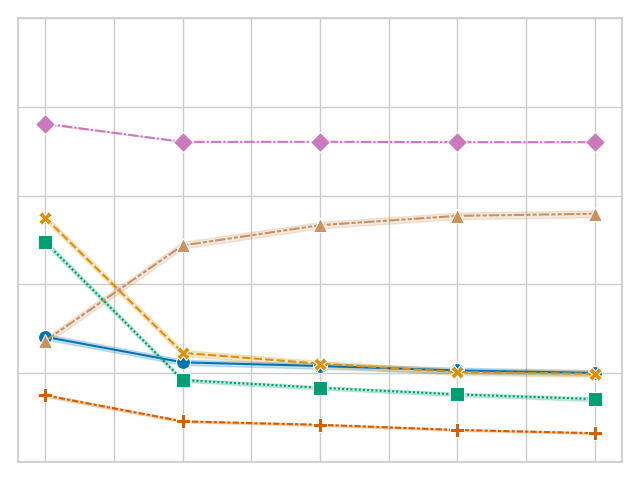
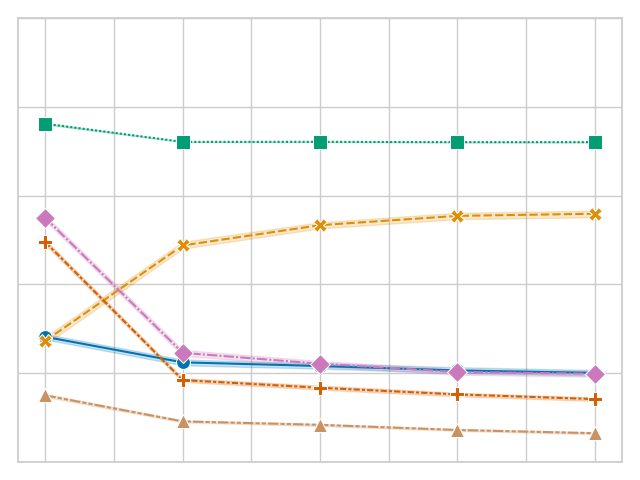
changed order in the plots

diff --git a/applications/atari/sanity_checks/sanity_checks_plot.py b/applications/atari/sanity_checks/sanity_checks_plot.py
@@ -153,23 +153,12 @@ if __name__ == '__main__':
 
     combined_df = add_approach(file_name, approach_name="Occlusion", games=games)
 
-    APPROACH = "noise"
-    RADIUS = 4
-    BLUR = False
-    RAW_DIFF = False
-    file_name = APPROACH + '_' + str(BLUR) + '_' + str(RAW_DIFF) + '_' + str(RADIUS) + ".csv"
+    APPROACH = "rise"
+    MASK_SIZE = 18
+    NUM_MASKS = 3000
+    file_name = APPROACH + '_' + "08" + '_' + str(MASK_SIZE) + '_' + str(NUM_MASKS) + ".csv"
     plot_combined_results(file_name, games, file_name.replace(".csv", ""))
-    combined_df = add_approach(file_name, approach_name="Noise Black", games=games, df=combined_df)
-
-    BLUR = True
-    file_name = APPROACH + '_' + str(BLUR) + '_' + str(RAW_DIFF) + '_' + str(RADIUS) + ".csv"
-    plot_combined_results(file_name, games, file_name.replace(".csv", ""))
-    combined_df = add_approach(file_name, approach_name="Noise Blur", games=games, df=combined_df)
-
-    RAW_DIFF = True
-    file_name = APPROACH + '_' + str(BLUR) + '_' + str(RAW_DIFF) + '_' + str(RADIUS) + ".csv"
-    plot_combined_results(file_name, games, file_name.replace(".csv", ""))
-    combined_df = add_approach(file_name, approach_name="Noise Blur Diff", games=games, df=combined_df)
+    combined_df = add_approach(file_name, approach_name="RISE", games=games, df=combined_df)
 
     # file_name = "Lime_slic_80_10_05_1000.csv"
     # plot_combined_results(file_name, games, file_name.replace(".csv", ""))
@@ -177,18 +166,31 @@ if __name__ == '__main__':
 
     file_name = "Lime_quickshift_1_4_0_3000"
     plot_combined_results(file_name, games, file_name.replace(".csv", ""))
-    combined_df = add_approach(file_name, approach_name="LIME quickshift", games=games, df=combined_df)
+    combined_df = add_approach(file_name, approach_name="LIME", games=games, df=combined_df)
 
     # file_name = "Lime_felzenswalb_1_025_2_2500"
     # plot_combined_results(file_name, games, file_name.replace(".csv", ""))
     # combined_df = add_approach(file_name, approach_name="LIME felz", games=games, df=combined_df)
 
-    APPROACH = "rise"
-    MASK_SIZE = 18
-    NUM_MASKS = 3000
-    file_name = APPROACH + '_' + "08" + '_' + str(MASK_SIZE) + '_' + str(NUM_MASKS) + ".csv"
+    APPROACH = "noise"
+    RADIUS = 4
+    BLUR = True
+    RAW_DIFF = False
+    file_name = APPROACH + '_' + str(BLUR) + '_' + str(RAW_DIFF) + '_' + str(RADIUS) + ".csv"
     plot_combined_results(file_name, games, file_name.replace(".csv", ""))
-    combined_df = add_approach(file_name, approach_name="RISE", games=games, df=combined_df)
+    combined_df = add_approach(file_name, approach_name="Noise Original", games=games, df=combined_df)
+
+    BLUR = False
+    RAW_DIFF = False
+    file_name = APPROACH + '_' + str(BLUR) + '_' + str(RAW_DIFF) + '_' + str(RADIUS) + ".csv"
+    plot_combined_results(file_name, games, file_name.replace(".csv", ""))
+    combined_df = add_approach(file_name, approach_name="Noise Black", games=games, df=combined_df)
+
+    BLUR = True
+    RAW_DIFF = True
+    file_name = APPROACH + '_' + str(BLUR) + '_' + str(RAW_DIFF) + '_' + str(RADIUS) + ".csv"
+    plot_combined_results(file_name, games, file_name.replace(".csv", ""))
+    combined_df = add_approach(file_name, approach_name="Noise Chosen Action", games=games, df=combined_df)
 
     directory = "combined"
     plot_params = {"ci": 99, "err_style": "band", "markers": True, "markersize" : 10, "legend":False}
@@ -210,7 +212,7 @@ if __name__ == '__main__':
     handles = ax.get_legend_handles_labels()
     handles[0].pop(0)
     handles[1].pop(0)
-    fig = plt.figure(figsize=(8.3,0.4))
+    fig = plt.figure(figsize=(9,0.4))
     fig.legend(handles[0],handles[1], loc="upper left", frameon=True, ncol= len(handles[0]))
     plt.savefig(fname=os.path.join("figures","sanity_legend.png"))
     plt.show()

diff --git a/applications/atari/insertion_metric/insertion_metric_plot_new.py b/applications/atari/insertion_metric/insertion_metric_plot_new.py
@@ -79,60 +79,60 @@ if __name__ == '__main__':
                 "occl_4_0",
                 # "occl_4_gray",
 
-                # "noise_4_blur",
-                "noise_4_black",
-                # "noise_4_blur_rawDiff",
-
                 "rise_08_18_3000",
 
                 "Lime_quickshift_1_4_0_3000",
                 # "Lime_slic_80_10_05_1000",
-                # "Lime_felzenswalb_1_025_2_2500"
+                # "Lime_felzenswalb_1_025_2_2500",
+
+                # "noise_4_blur",
+                "noise_4_black",
+                # "noise_4_blur_rawDiff"
             ]
         elif game == "breakout":
             approaches = [
                 "occl_4_0",
                 # "occl_4_gray",
 
-                # "noise_4_blur",
-                # "noise_4_black",
-                "noise_4_blur_rawDiff",
-
                 "rise_08_18_3000",
 
                 # "Lime_quickshift_1_4_0_3000",
                 # "Lime_slic_80_10_05_1000",
-                "Lime_felzenswalb_1_025_2_2500"
+                "Lime_felzenswalb_1_025_2_2500",
+
+                # "noise_4_blur",
+                # "noise_4_black",
+                "noise_4_blur_rawDiff"
             ]
         elif game == "frostbite":
             approaches = [
                 "occl_4_0",
                 # "occl_4_gray",
 
-                "noise_4_blur",
-                #"noise_4_black",
-                #"noise_4_blur_rawDiff",
-
                 "rise_08_18_3000",
 
                 "Lime_quickshift_1_4_0_3000",
                 # "Lime_slic_80_10_05_1000",
                 # "Lime_felzenswalb_1_025_2_2500",
+
+                "noise_4_blur",
+                #"noise_4_black",
+                #"noise_4_blur_rawDiff"
                           ]
         elif game == "spaceInvaders":
             approaches = [
                 "occl_4_0",
                 # "occl_4_gray",
 
-                # "noise_4_blur",
-                # "noise_4_black",
-                "noise_4_blur_rawDiff",
-
                 "rise_08_18_3000",
 
                 # "Lime_quickshift_1_4_0_3000",
                 # "Lime_slic_80_10_05_1000",
-                "Lime_felzenswalb_1_025_2_2500"
+                "Lime_felzenswalb_1_025_2_2500",
+
+                # "noise_4_blur",
+                # "noise_4_black",
+                "noise_4_blur_rawDiff"
             ]
 
         if NOISE_LIME:
@@ -192,7 +192,7 @@ if __name__ == '__main__':
         handles.pop(0)
 
 
-        labels = ["Occlusion Sensitivity", "Noise Sensitivity", "RISE", "LIME"]
+        labels = ["Occlusion Sensitivity", "RISE", "LIME", "Noise Sensitivity"]
         fig = plt.figure(figsize=(6.2, 0.4))
         if NOISE_LIME:
             labels = ["NS Original", "NS Black", "NS Chosen Action", "LIME Quickshift", "LIME SLIC", "LIME Felzenszwalb"]
